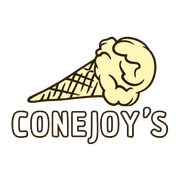
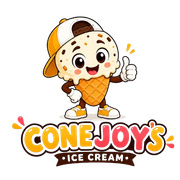
Update: 2026-08-24 04:18:42

diff --git a/components/HomeHero.tsx b/components/HomeHero.tsx
@@ -14,7 +14,7 @@ export default function HomeHero() {
           <h1 className="max-w-[680px] font-display text-[clamp(3.4rem,4.9vw,6rem)] font-extrabold leading-[0.88] tracking-[-0.075em] max-md:max-w-[600px] max-md:text-[clamp(3rem,12vw,5.4rem)] max-sm:text-[clamp(2.65rem,12.5vw,4rem)]">
             Lahore&apos;s cones, cups and shakes.
           </h1>
-          <p className="mt-6 max-w-[510px] text-[clamp(1rem,1.5vw,1.25rem)] font-semibold leading-relaxed text-ink/75 max-sm:mt-4 max-sm:text-[0.98rem]">
+          <p className="mt-6 max-w-[510px] text-[clamp(1rem,1.5vw,1.25rem)] font-semibold leading-relaxed text-[rgba(74,38,24,0.75)] max-sm:mt-4 max-sm:text-[0.98rem]">
             Visit us in Chung or order for delivery.
           </p>
           <div className="mt-8 flex flex-wrap items-center gap-3 max-sm:mt-6 max-sm:w-full">
@@ -22,13 +22,13 @@ export default function HomeHero() {
               href={WHATSAPP_URL}
               target="_blank"
               rel="noreferrer"
-              className="inline-flex min-h-[52px] items-center justify-center whitespace-nowrap rounded-full bg-ink px-7 text-sm font-black text-panel shadow-[0_12px_30px_rgba(21,21,15,0.2)] transition-transform duration-200 ease-custom hover:-translate-y-0.5 active:translate-y-0 focus-visible:outline focus-visible:outline-3 focus-visible:outline-offset-4 focus-visible:outline-ink max-sm:flex-1 max-sm:px-5"
+              className="inline-flex min-h-[52px] items-center justify-center whitespace-nowrap rounded-full bg-[var(--home-brown)] px-7 text-sm font-black text-[var(--home-white)] shadow-[0_12px_30px_rgba(74,38,24,0.2)] transition-transform duration-200 ease-custom hover:-translate-y-0.5 active:translate-y-0 focus-visible:outline focus-visible:outline-3 focus-visible:outline-offset-4 focus-visible:outline-[var(--home-brown)] max-sm:flex-1 max-sm:px-5"
             >
               Order on WhatsApp
             </a>
             <a
               href="#categories"
-              className="inline-flex min-h-[52px] items-center justify-center whitespace-nowrap rounded-full border-2 border-ink bg-transparent px-7 text-sm font-black text-ink transition-colors duration-200 hover:bg-panel focus-visible:outline focus-visible:outline-3 focus-visible:outline-offset-4 focus-visible:outline-ink max-sm:flex-1 max-sm:px-5"
+              className="inline-flex min-h-[52px] items-center justify-center whitespace-nowrap rounded-full border-2 border-[var(--home-brown)] bg-transparent px-7 text-sm font-black text-[var(--home-brown)] transition-colors duration-200 hover:bg-[var(--home-golden)] focus-visible:outline focus-visible:outline-3 focus-visible:outline-offset-4 focus-visible:outline-[var(--home-brown)] max-sm:flex-1 max-sm:px-5"
             >
               See the menu
             </a>
@@ -36,15 +36,17 @@ export default function HomeHero() {
         </div>
 
         <div className="home-hero-visual relative flex h-[min(74svh,720px)] min-h-[520px] items-center justify-center max-md:h-[min(48svh,440px)] max-md:min-h-[320px] max-sm:h-[min(44svh,390px)] max-sm:min-h-[280px]">
-          <div className="absolute aspect-square w-[min(43vw,620px)] rounded-full bg-panel shadow-[inset_0_0_0_1px_rgba(21,21,15,0.09),0_32px_80px_rgba(78,88,0,0.18)] max-md:w-[min(78vw,410px)]" />
-          <div className="absolute aspect-square w-[min(35vw,500px)] rounded-full border border-dashed border-ink/20 max-md:w-[min(63vw,330px)]" />
+          <div className="absolute aspect-square w-[min(43vw,620px)] rounded-full bg-[var(--home-golden)] shadow-[inset_0_0_0_1px_rgba(74,38,24,0.12),0_32px_80px_rgba(74,38,24,0.16)] max-md:w-[min(78vw,410px)]" />
+          <div className="absolute aspect-square w-[min(35vw,500px)] rounded-full border border-dashed border-[rgba(74,38,24,0.3)] max-md:w-[min(63vw,330px)]" />
+          <span className="absolute left-[8%] top-[15%] z-20 h-4 w-4 rounded-full bg-[var(--home-coral)] max-sm:h-3 max-sm:w-3" aria-hidden="true" />
+          <span className="absolute bottom-[16%] right-[5%] z-20 h-3 w-3 rounded-full bg-[var(--home-coral)] max-sm:h-2.5 max-sm:w-2.5" aria-hidden="true" />
           <Image
             src="/assets/cones/mango.webp"
             alt="Mango ice cream cone from Cone Joy's"
             width={540}
             height={1500}
             sizes="(max-width: 767px) 58vw, (max-width: 1279px) 36vw, 430px"
-            className="relative z-10 h-[92%] w-auto object-contain drop-shadow-[0_28px_28px_rgba(57,61,10,0.2)] max-md:h-[96%]"
+            className="relative z-10 h-[92%] w-auto object-contain drop-shadow-[0_28px_28px_rgba(74,38,24,0.2)] max-md:h-[96%]"
             priority
           />
         </div>

diff --git a/components/HomeContact.tsx b/components/HomeContact.tsx
@@ -5,7 +5,7 @@ export default function HomeContact() {
   return (
     <section
       id="visit"
-      className="scroll-mt-[var(--header-height)] bg-panel px-[clamp(16px,5vw,72px)] py-[clamp(72px,9vw,128px)]"
+      className="scroll-mt-[var(--header-height)] bg-[var(--home-cream)] px-[clamp(16px,5vw,72px)] pb-[clamp(72px,9vw,128px)] pt-[clamp(36px,4.5vw,64px)]"
       aria-labelledby="visit-title"
     >
       <div className="mx-auto grid w-full max-w-[1380px] grid-cols-[minmax(0,0.9fr)_minmax(360px,1.1fr)] items-start gap-[clamp(36px,8vw,120px)] max-md:grid-cols-1">
@@ -16,25 +16,25 @@ export default function HomeContact() {
           >
             Visit us in Chung.
           </h2>
-          <p className="mt-5 max-w-[520px] text-base font-semibold leading-relaxed text-ink/70">
+          <p className="mt-5 max-w-[520px] text-base font-semibold leading-relaxed text-[rgba(74,38,24,0.7)]">
             Stop by in Lahore or place your delivery order on WhatsApp.
           </p>
         </div>
 
-        <div className="rounded-[28px] border border-ink/50 bg-bg p-[clamp(24px,4vw,48px)] shadow-[0_18px_55px_rgba(67,73,10,0.12)]">
+        <div className="rounded-[28px] border border-[rgba(74,38,24,0.5)] bg-[var(--home-golden)] p-[clamp(24px,4vw,48px)] shadow-[0_18px_55px_rgba(74,38,24,0.12)]">
           <dl className="grid gap-7">
             <div>
-              <dt className="text-xs font-black uppercase tracking-[0.14em] text-ink/60">Address</dt>
+              <dt className="text-xs font-black uppercase tracking-[0.14em] text-[var(--home-brown)]">Address</dt>
               <dd className="mt-2 font-display text-[clamp(1.6rem,3vw,2.5rem)] font-extrabold leading-tight tracking-[-0.04em]">
                 Chung, Lahore
               </dd>
             </div>
             <div>
-              <dt className="text-xs font-black uppercase tracking-[0.14em] text-ink/60">Opening hours</dt>
+              <dt className="text-xs font-black uppercase tracking-[0.14em] text-[var(--home-brown)]">Opening hours</dt>
               <dd className="mt-2 text-lg font-black">12:00 PM to 12:00 AM</dd>
             </div>
             <div>
-              <dt className="text-xs font-black uppercase tracking-[0.14em] text-ink/60">Delivery</dt>
+              <dt className="text-xs font-black uppercase tracking-[0.14em] text-[var(--home-brown)]">Delivery</dt>
               <dd className="mt-2 text-lg font-black">Available</dd>
             </div>
           </dl>
@@ -43,7 +43,7 @@ export default function HomeContact() {
             href={WHATSAPP_URL}
             target="_blank"
             rel="noreferrer"
-            className="mt-9 inline-flex min-h-[52px] w-full items-center justify-center whitespace-nowrap rounded-full bg-ink px-7 text-sm font-black text-panel transition-transform duration-200 ease-custom hover:-translate-y-0.5 active:translate-y-0 focus-visible:outline focus-visible:outline-3 focus-visible:outline-offset-4 focus-visible:outline-ink"
+            className="mt-9 inline-flex min-h-[52px] w-full items-center justify-center whitespace-nowrap rounded-full bg-[var(--home-brown)] px-7 text-sm font-black text-[var(--home-white)] transition-transform duration-200 ease-custom hover:-translate-y-0.5 active:translate-y-0 focus-visible:outline focus-visible:outline-3 focus-visible:outline-offset-4 focus-visible:outline-[var(--home-brown)]"
           >
             Order on WhatsApp
           </a>

diff --git a/components/HomeCategories.tsx b/components/HomeCategories.tsx
@@ -38,7 +38,7 @@ export default function HomeCategories() {
   return (
     <section
       id="categories"
-      className="scroll-mt-[var(--header-height)] bg-panel px-[clamp(16px,5vw,72px)] py-[clamp(72px,9vw,128px)]"
+      className="scroll-mt-[var(--header-height)] bg-[var(--home-cream)] px-[clamp(16px,5vw,72px)] pb-[clamp(36px,4.5vw,64px)] pt-[clamp(72px,9vw,128px)]"
       aria-labelledby="categories-title"
     >
       <div className="mx-auto w-full max-w-[1380px]">
@@ -48,7 +48,7 @@ export default function HomeCategories() {
         >
           Pick your kind of joy.
         </h2>
-        <p className="mt-5 max-w-[560px] text-base font-semibold leading-relaxed text-ink/70">
+        <p className="mt-5 max-w-[560px] text-base font-semibold leading-relaxed text-[rgba(74,38,24,0.7)]">
           Start with a cone, choose a cup, or make it a shake.
         </p>
 
@@ -57,14 +57,14 @@ export default function HomeCategories() {
             <Link
               key={category.name}
               href={category.href}
-              className={`group relative isolate overflow-hidden rounded-[28px] border border-ink/50 bg-bg text-ink shadow-[0_16px_45px_rgba(67,73,10,0.1)] transition-[transform,box-shadow] duration-300 ease-custom hover:-translate-y-1 hover:shadow-[0_22px_60px_rgba(67,73,10,0.16)] focus-visible:outline focus-visible:outline-3 focus-visible:outline-offset-4 focus-visible:outline-ink ${category.className}`}
+              className={`group relative isolate overflow-hidden rounded-[28px] border border-[rgba(74,38,24,0.5)] bg-[var(--home-golden)] text-[var(--home-brown)] shadow-[0_16px_45px_rgba(74,38,24,0.1)] transition-[transform,box-shadow] duration-300 ease-custom hover:-translate-y-1 hover:shadow-[0_22px_60px_rgba(74,38,24,0.16)] focus-visible:outline focus-visible:outline-3 focus-visible:outline-offset-4 focus-visible:outline-[var(--home-brown)] ${category.className}`}
               aria-label={`Browse ${category.name}`}
             >
               <div className="relative z-20 max-w-[260px] p-7 max-sm:p-6">
                 <h3 className="font-display text-[clamp(2rem,3.4vw,3.8rem)] font-extrabold leading-none tracking-[-0.055em]">
                   {category.name}
                 </h3>
-                <p className="mt-3 text-sm font-bold leading-relaxed text-ink/70">
+                <p className="mt-3 text-sm font-bold leading-relaxed text-[var(--home-brown)]">
                   {category.description}
                 </p>
                 <span className="mt-5 inline-flex min-h-11 items-center font-black underline decoration-2 underline-offset-4">

diff --git a/components/HomeHeader.tsx b/components/HomeHeader.tsx
@@ -6,23 +6,23 @@ const WHATSAPP_URL =
 
 export default function HomeHeader() {
   return (
-    <header className="sticky top-0 z-50 h-20 border-b border-ink/50 bg-bg/95 px-[clamp(12px,4vw,64px)] backdrop-blur-md max-md:h-16 max-sm:h-14">
+    <header className="sticky top-0 z-50 h-20 border-b border-[rgba(74,38,24,0.5)] bg-[rgba(253,246,227,0.95)] px-[clamp(12px,4vw,64px)] backdrop-blur-md max-md:h-16 max-sm:h-14">
       <nav
         className="mx-auto flex h-full w-full max-w-[1380px] items-center justify-between gap-4"
         aria-label="Primary navigation"
       >
         <Link
           href="/"
-          className="inline-flex min-h-11 items-center rounded-xl focus-visible:outline focus-visible:outline-2 focus-visible:outline-offset-4 focus-visible:outline-ink"
+          className="inline-flex min-h-11 items-center rounded-xl focus-visible:outline focus-visible:outline-2 focus-visible:outline-offset-4 focus-visible:outline-[var(--home-brown)]"
           aria-label="Cone Joy's Ice Cream home"
         >
           <Image
-            src="/assets/conejoys-logo-new.png"
+            src="/assets/conejoys-mascot-logo.png"
             alt="Cone Joy's Ice Cream"
             width={500}
-            height={311}
-            sizes="(max-width: 640px) 78px, (max-width: 768px) 92px, 108px"
-            className="h-auto w-[108px] max-md:w-[92px] max-sm:w-[78px]"
+            height={500}
+            sizes="(max-width: 640px) 49px, (max-width: 768px) 57px, 67px"
+            className="h-auto w-[67px] max-md:w-[57px] max-sm:w-[49px]"
             loading="eager"
           />
         </Link>
@@ -46,7 +46,7 @@ export default function HomeHeader() {
           href={WHATSAPP_URL}
           target="_blank"
           rel="noreferrer"
-          className="inline-flex min-h-11 shrink-0 items-center justify-center rounded-full bg-ink px-5 text-sm font-black text-panel transition-transform duration-200 ease-custom hover:-translate-y-0.5 active:translate-y-0 focus-visible:outline focus-visible:outline-2 focus-visible:outline-offset-4 focus-visible:outline-ink max-sm:px-4 max-sm:text-xs"
+          className="inline-flex min-h-11 shrink-0 items-center justify-center rounded-full bg-[var(--home-brown)] px-5 text-sm font-black text-[var(--home-white)] transition-transform duration-200 ease-custom hover:-translate-y-0.5 active:translate-y-0 focus-visible:outline focus-visible:outline-2 focus-visible:outline-offset-4 focus-visible:outline-[var(--home-brown)] max-sm:px-4 max-sm:text-xs"
         >
           Order on WhatsApp
         </a>

diff --git a/components/HomeFooter.tsx b/components/HomeFooter.tsx
@@ -3,20 +3,20 @@ import Link from "next/link";
 
 export default function HomeFooter() {
   return (
-    <footer className="border-t border-ink/50 bg-panel px-[clamp(16px,5vw,72px)] py-8 text-ink">
+    <footer className="border-t border-[var(--home-brown)] bg-[var(--home-brown)] px-[clamp(16px,5vw,72px)] py-8 text-[var(--home-white)]">
       <div className="mx-auto flex w-full max-w-[1380px] items-center justify-between gap-6 max-sm:flex-col max-sm:items-start">
         <Link
           href="/"
-          className="inline-flex min-h-11 items-center rounded-xl focus-visible:outline focus-visible:outline-2 focus-visible:outline-offset-4 focus-visible:outline-ink"
+          className="inline-flex min-h-11 items-center rounded-xl focus-visible:outline focus-visible:outline-2 focus-visible:outline-offset-4 focus-visible:outline-[var(--home-white)]"
           aria-label="Cone Joy's Ice Cream home"
         >
           <Image
-            src="/assets/conejoys-logo-new.png"
+            src="/assets/conejoys-mascot-logo.png"
             alt="Cone Joy's Ice Cream"
             width={500}
-            height={311}
-            sizes="92px"
-            className="h-auto w-[92px]"
+            height={500}
+            sizes="57px"
+            className="h-auto w-[57px]"
             loading="lazy"
           />
         </Link>
@@ -24,7 +24,7 @@ export default function HomeFooter() {
           href="https://mavplo.com"
           target="_blank"
           rel="noopener noreferrer"
-          className="inline-flex min-h-11 items-center text-sm font-bold underline decoration-1 underline-offset-4 focus-visible:outline focus-visible:outline-2 focus-visible:outline-offset-4 focus-visible:outline-ink"
+          className="inline-flex min-h-11 items-center text-sm font-bold underline decoration-1 underline-offset-4 focus-visible:outline focus-visible:outline-2 focus-visible:outline-offset-4 focus-visible:outline-[var(--home-white)]"
         >
           Designed by MAVPLO · mavplo.com
         </a>

diff --git a/app/cups/page.tsx b/app/cups/page.tsx
@@ -117,12 +117,12 @@ export default function CupsPage() {
 
           <Link href="/" className="brand inline-flex items-center text-current no-underline" aria-label="Cone Joy's Ice Cream home">
             <Image
-              className="brand-logo block w-[110px] max-md:w-[92px] max-sm:w-[80px] h-auto"
-              src="/assets/conejoys-logo-new.png"
+              className="brand-logo block h-auto w-[68px] max-md:w-[57px] max-sm:w-[50px]"
+              src="/assets/conejoys-mascot-logo.png"
               alt="Cone Joy's Ice Cream"
               width={500}
-              height={311}
-              sizes="(max-width: 640px) 80px, (max-width: 768px) 92px, 110px"
+              height={500}
+              sizes="(max-width: 640px) 50px, (max-width: 768px) 57px, 68px"
               loading="eager"
             />
           </Link>

diff --git a/app/globals.css b/app/globals.css
@@ -29,7 +29,15 @@ html {
 }
 
 html:has(.home-page) {
-  --page-accent: #e6f23c;
+  --page-accent: #fdf6e3;
+}
+
+.home-page {
+  --home-cream: #fdf6e3;
+  --home-brown: #4a2618;
+  --home-golden: #faa926;
+  --home-coral: #f2606b;
+  --home-white: #ffffff;
 }
 
 .home-nav-link {
@@ -39,19 +47,19 @@ html:has(.home-page) {
   justify-content: center;
   border-radius: 9999px;
   padding: 0 14px;
-  color: rgba(21, 21, 15, 0.72);
+  color: rgba(74, 38, 24, 0.72);
   font-size: 0.82rem;
   font-weight: 800;
   transition: color 180ms ease, background-color 180ms ease;
 }
 
 .home-nav-link:hover {
-  color: #15150f;
-  background-color: rgba(21, 21, 15, 0.07);
+  color: #4a2618;
+  background-color: #faa926;
 }
 
 .home-nav-link:focus-visible {
-  outline: 2px solid #15150f;
+  outline: 2px solid #4a2618;
   outline-offset: 3px;
 }
 

diff --git a/app/shakes/page.tsx b/app/shakes/page.tsx
@@ -82,12 +82,12 @@ export default function ShakesPage() {
           </Link>
           <Link href="/" className="brand inline-flex items-center" aria-label="Cone Joy's Ice Cream home">
             <Image
-              className="block h-auto w-[110px] max-md:w-[92px] max-sm:w-[80px]"
-              src="/assets/conejoys-logo-new.png"
+              className="block h-auto w-[68px] max-md:w-[57px] max-sm:w-[50px]"
+              src="/assets/conejoys-mascot-logo.png"
               alt="Cone Joy's Ice Cream"
               width={500}
-              height={311}
-              sizes="(max-width: 640px) 80px, (max-width: 768px) 92px, 110px"
+              height={500}
+              sizes="(max-width: 640px) 50px, (max-width: 768px) 57px, 68px"
               loading="eager"
             />
           </Link>

diff --git a/components/ConeStory.tsx b/components/ConeStory.tsx
@@ -762,12 +762,12 @@ export default function ConeStory() {
             aria-label="Cone Joy's Ice Cream home"
           >
             <Image
-              className="brand-logo block w-[110px] max-md:w-[92px] max-sm:w-[80px] h-auto"
-              src="/assets/conejoys-logo-new.png"
+              className="brand-logo block h-auto w-[68px] max-md:w-[57px] max-sm:w-[50px]"
+              src="/assets/conejoys-mascot-logo.png"
               alt="Cone Joy's Ice Cream"
               width={500}
-              height={311}
-              sizes="(max-width: 640px) 80px, (max-width: 768px) 92px, 110px"
+              height={500}
+              sizes="(max-width: 640px) 50px, (max-width: 768px) 57px, 68px"
               loading="eager"
               decoding="sync"
             />

diff --git a/cone-scroll.html b/cone-scroll.html
@@ -35,7 +35,7 @@
           <a class="brand inline-flex items-center text-current no-underline" href="#cones"
             aria-label="Cone Joy's Ice Cream home">
             <img class="brand-logo block w-[110px] max-md:w-[92px] max-sm:w-[80px] h-auto"
-              src="./assets/conejoys-logo.png" alt="Cone Joy's Ice Cream" />
+              src="./assets/conejoys-mascot-logo.png" alt="Cone Joy's Ice Cream" />
           </a>
 
           <!-- Live Search Bar -->

diff --git a/app/page.tsx b/app/page.tsx
@@ -6,7 +6,7 @@ import HomeHero from "@/components/HomeHero";
 
 export default function Home() {
   return (
-    <div className="home-page min-h-[100dvh] overflow-x-clip bg-bg text-ink">
+    <div className="home-page min-h-[100dvh] overflow-x-clip bg-[var(--home-cream)] text-[var(--home-brown)]">
       <HomeHeader />
       <main>
         <HomeHero />

diff --git a/scripts/optimize_assets.py b/scripts/optimize_assets.py
@@ -50,7 +50,7 @@ def optimize_image(filepath, max_width=600, quality=82):
 
 def main():
     print("--- Optimizing Logo Assets ---")
-    logo_path = os.path.join(ASSETS_DIR, "conejoys-logo.png")
+    logo_path = os.path.join(ASSETS_DIR, "conejoys-mascot-logo.png")
     optimize_image(logo_path, max_width=240, quality=90)
 
     print("\n--- Optimizing Cone Assets ---")
